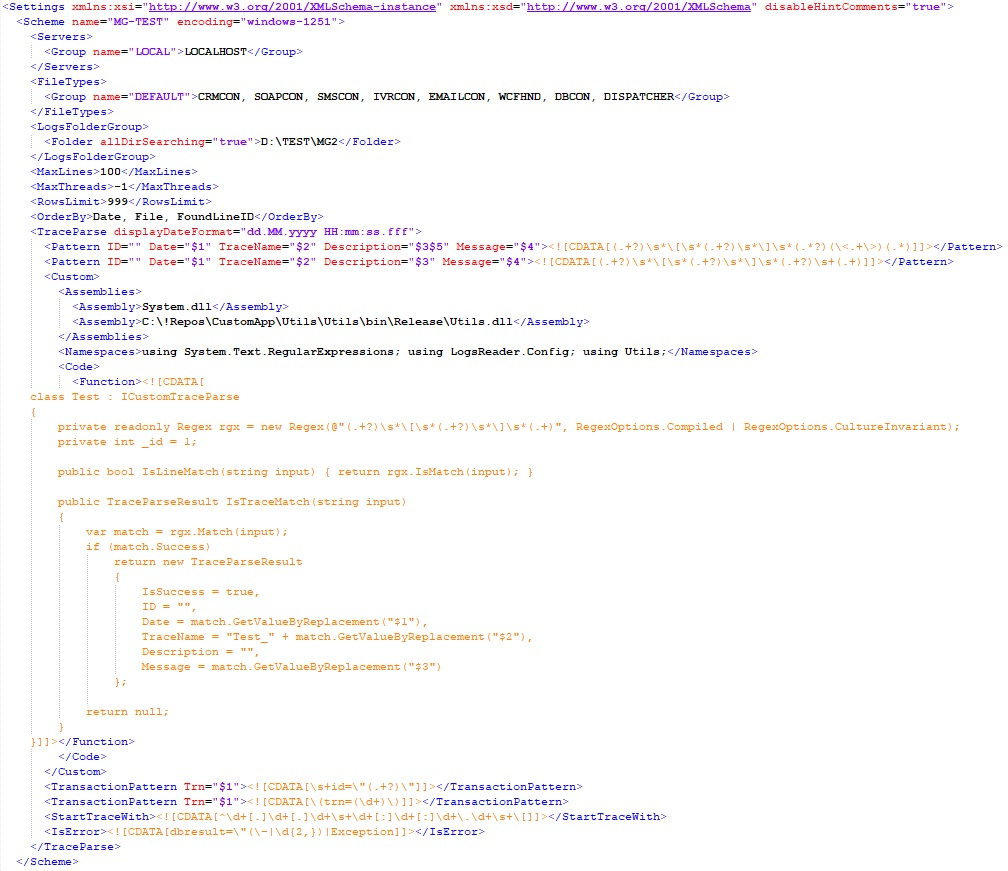
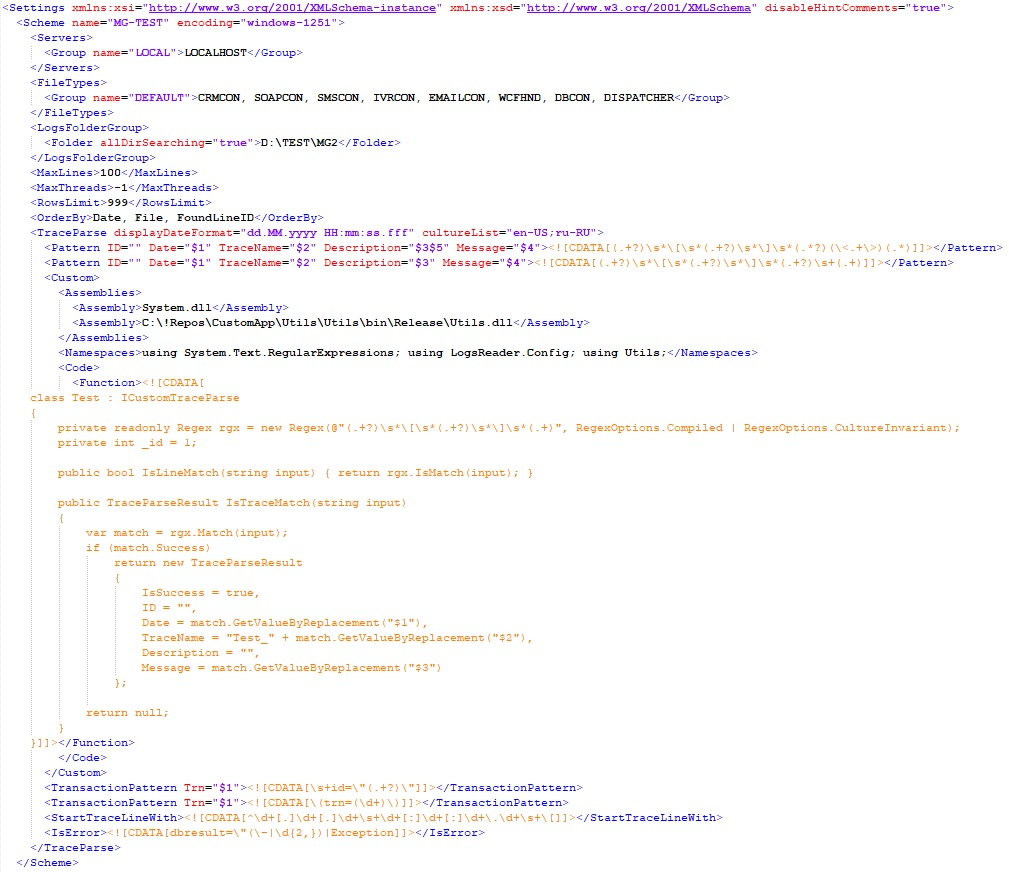
fixed

diff --git a/SPAMassageSaloon/LogsReader/Reader/LogsReaderPerformerBase.cs b/SPAMassageSaloon/LogsReader/Reader/LogsReaderPerformerBase.cs
@@ -11,6 +11,7 @@ using Utils;
 namespace LogsReader.Reader
 {
 	public delegate V OutFuncDelegate<in T, U, out V>(T input, out U output);
+	public delegate V OutFuncDelegate2<in T, U, F, out V>(T input, out U output1, out F output2);
 
 	public abstract class LogsReaderPerformerBase : IDisposable
 	{
@@ -53,7 +54,7 @@ namespace LogsReader.Reader
 
 		public string DisplayDateFormat => _currentSettings.TraceParse.DisplayDateFormat;
 
-		public OutFuncDelegate<string, DateTime, bool> TryParseDate { get; }
+		public OutFuncDelegate2<string, DateTime, CultureInfo, bool> TryParseDate { get; }
 
 		public Regex StartTraceLineWith => _currentSettings.TraceParse.StartTraceLineWith;
 
@@ -72,21 +73,29 @@ namespace LogsReader.Reader
 
 			if (_currentSettings.TraceParse.CultureList.Count > 0)
 			{
-				TryParseDate = (string dateValue, out DateTime result) =>
+				TryParseDate = (string dateValue, out DateTime result, out CultureInfo culture) =>
 				{
 					foreach (var cultureInfo in _currentSettings.TraceParse.CultureList)
 					{
 						if (DateTime.TryParse(dateValue, cultureInfo, DateTimeStyles.AllowWhiteSpaces, out result))
+						{
+							culture = cultureInfo;
 							return true;
+						}
 					}
 
+					culture = null;
 					result = DateTime.MinValue;
 					return false;
 				};
 			}
 			else
 			{
-				TryParseDate = (string dateValue, out DateTime result) => DateTime.TryParse(dateValue, out result);
+				TryParseDate = (string dateValue, out DateTime result, out CultureInfo culture) =>
+				{
+					culture = null;
+					return DateTime.TryParse(dateValue, out result);
+				};
 			}
 
 			_transactionValues = new ConcurrentDictionary<string, Regex>();

diff --git a/SPAMassageSaloon/LogsReader/Properties/Resources.Designer.cs b/SPAMassageSaloon/LogsReader/Properties/Resources.Designer.cs
@@ -1270,8 +1270,8 @@ namespace LogsReader.Properties {
         }
         
         /// <summary>
-        ///   Ищет локализованную строку, похожую на Attribute &quot;displayDateFormat&quot; sets the display date format.
-        ///        &quot;Pattern&quot; nodes are used for parsing and reading trace parameters. It can be used together with the &quot;Custom&quot; setting, and has a higher priority. Selected from top to bottom, from the most accurate to the default. To correctly display the results, RegEx groupings must be used in the attributes. Regular expression works only with options Singleline and CultureInvariant. Timeout execution - 10 seconds. Also in the attributes you can use custo [остаток строки не уместился]&quot;;.
+        ///   Ищет локализованную строку, похожую на Attribute &quot;displayDateFormat&quot; sets the display date format. Attribute &quot;cultureList&quot; using when trying to parse string Date, dafult value is empty and for trying to parse multiple cultures set value for example &quot;en-US;ru-RU&quot;
+        ///        &quot;Pattern&quot; nodes are used for parsing and reading trace parameters. It can be used together with the &quot;Custom&quot; setting, and has a higher priority. Selected from top to bottom, from the most accurate to the default. To correctly display the results, RegEx groupings must be used in  [остаток строки не уместился]&quot;;.
         /// </summary>
         public static string Txt_LRSettingsScheme_TraceParse {
             get {

diff --git a/SPAMassageSaloon/LogsReader/Reader/DataTemplate.cs b/SPAMassageSaloon/LogsReader/Reader/DataTemplate.cs
@@ -52,10 +52,10 @@ namespace LogsReader.Reader
 
             ID = int.TryParse(parseResult.ID, out var id) ? id : -1;
 
-            if (!parseResult.Date.IsNullOrEmptyTrim() && traceReader.TryParseDate(parseResult.Date.Replace(",", "."), out var dateOfTrace))
+            if (!parseResult.Date.IsNullOrEmptyTrim() && traceReader.TryParseDate(parseResult.Date.Replace(",", "."), out var dateOfTrace, out var culture))
             {
-                Date = dateOfTrace;
-                DateOfTrace = Date.Value.ToString(traceReader.DisplayDateFormat);
+	            Date = dateOfTrace;
+	            DateOfTrace = culture != null ? Date.Value.ToString(traceReader.DisplayDateFormat, culture) : Date.Value.ToString(traceReader.DisplayDateFormat);
             }
             else
             {
